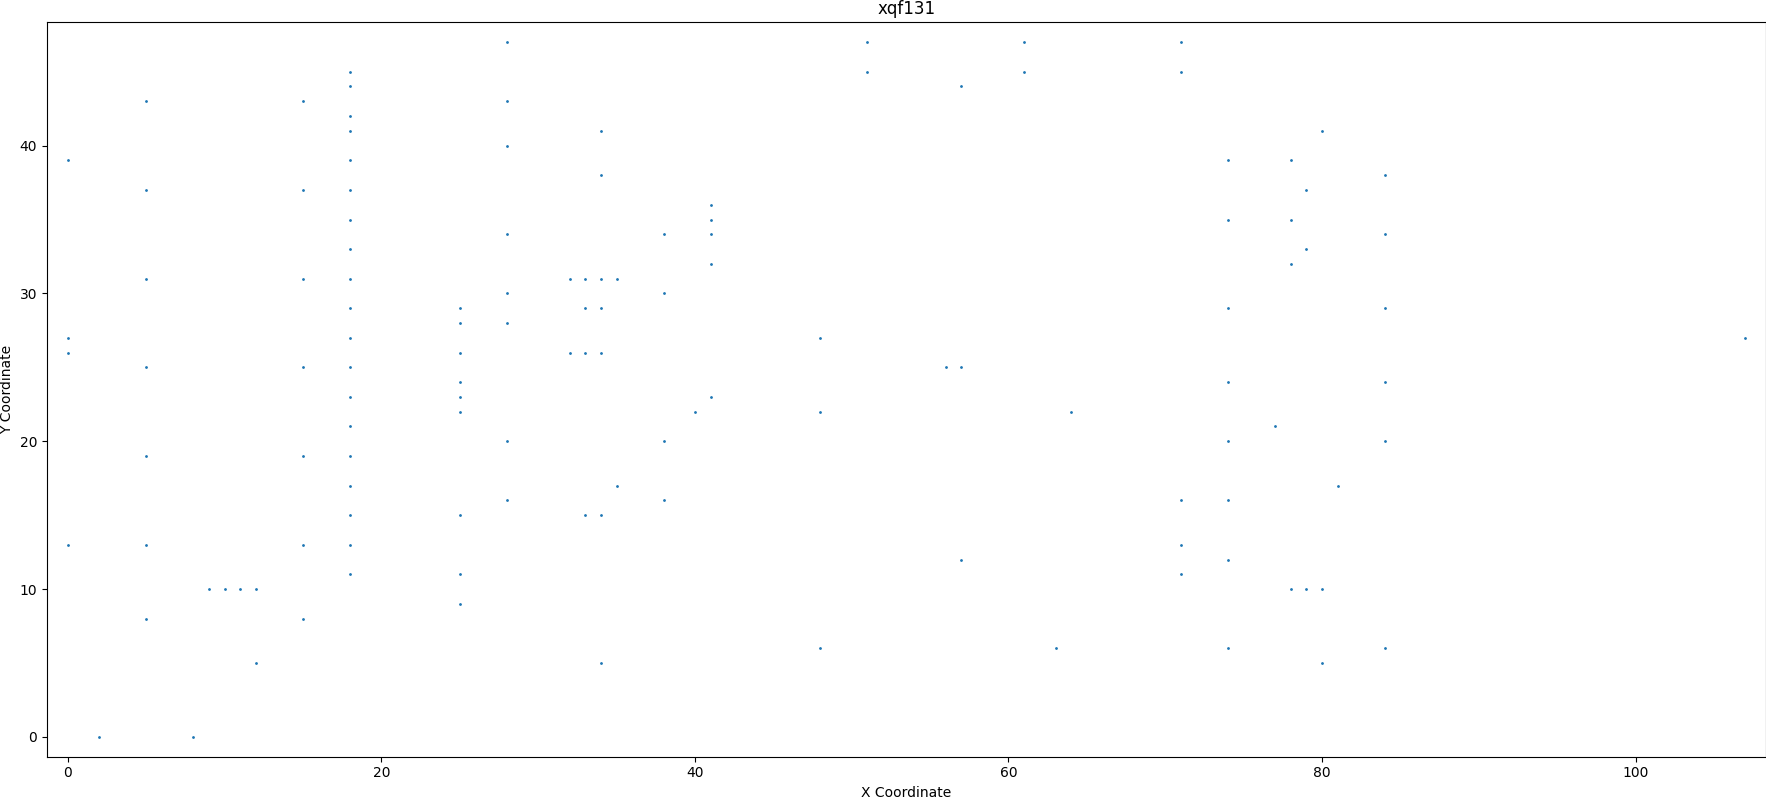
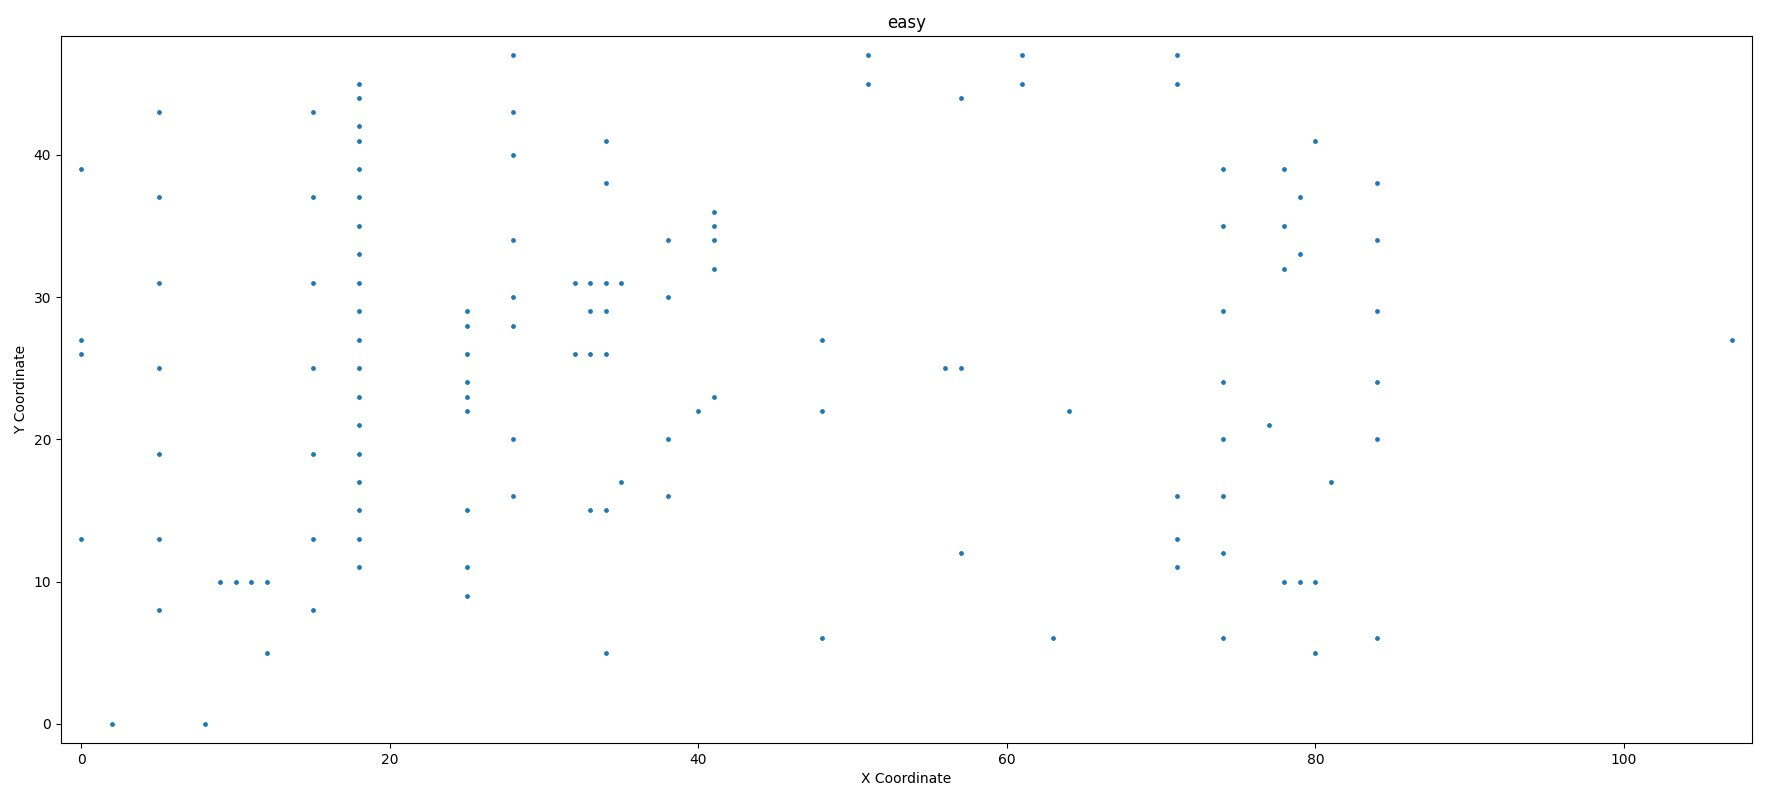
feat: Improvements + easy TSP

diff --git a/src/travel_graph.py b/src/travel_graph.py
@@ -21,27 +21,58 @@ class TravelGraph:
 
     def find_shortest_path(self) -> tuple[list[int], float]:
         ga_instance = GA(
-            num_generations=100,
-            num_parents_mating=4,
+            num_generations=200,
+            num_parents_mating=20,
             fitness_func=self.fitness_function,
-            sol_per_pop=300,
+            initial_population=self.generate_biased_population(population_size=100),
             num_genes=len(self.nodes),
             init_range_low=0,
             init_range_high=len(self.nodes) - 1,
             gene_type=int,
-            parent_selection_type="sss",
+            parent_selection_type="tournament",
             keep_parents=1,
+            keep_elitism=2,
+            K_tournament=5,
             crossover_type="single_point",
+            crossover_probability=0.8,
             mutation_type="random",
-            mutation_num_genes=max(round(len(self.nodes) * 0.05), 1),
+            mutation_probability=0.2,
+            mutation_num_genes=max(round(len(self.nodes) * 0.1), 1),
             gene_space=[i for i in range(len(self.nodes))],
             allow_duplicate_genes=False,
+            stop_criteria=[
+                "saturate_10",
+            ],
+            random_seed=42,
         )
         ga_instance.run()
 
         solution, solution_fitness, _ = ga_instance.best_solution()
         distance = -solution_fitness
         return solution, distance
+
+    def generate_biased_population(self, population_size: int, random_fraction: float = 0.2) -> list[np.ndarray]:
+        base_order = np.arange(len(self.nodes))
+        population = []
+
+        num_random_individuals = int(population_size * random_fraction)
+        num_biased_individuals = population_size - num_random_individuals
+
+        for _ in range(num_biased_individuals):
+            individual = base_order.copy()
+
+            num_swaps = np.random.randint(2, 6)
+            for _ in range(num_swaps):
+                i, j = np.random.choice(len(self.nodes), size=2, replace=False)
+                individual[i], individual[j] = individual[j], individual[i]
+
+            population.append(individual)
+
+        for _ in range(num_random_individuals):
+            random_individual = np.random.permutation(base_order)
+            population.append(random_individual)
+
+        return population
 
     def fitness_function(self, ga_instance: GA, solution: np.ndarray, solution_idx: int) -> float:
         distance = 0.0

diff --git a/src/driver.py b/src/driver.py
@@ -1,3 +1,4 @@
+import time
 from parser.tour_parser import parse_tour_file
 from parser.tsp_parser import parse_tsp_file
 
@@ -6,34 +7,43 @@ from travel_graph import TravelGraph
 
 
 def main() -> None:
-    tsp_file_path = "data/xqf131/xqf131.tsp"
+    problem_name = input("Enter the problem name [xqf131]: ")
+    problem_name = problem_name or "xqf131"
+    tsp_file_path = f"data/{problem_name}/{problem_name}.tsp"
     tsp_file = parse_tsp_file(file_path=tsp_file_path)
+    nodes = tsp_file.nodes
     plot_nodes_to_file(
-        nodes=tsp_file.nodes,
-        file_path="data/xqf131/xqf131.png",
-        title="xqf131",
+        nodes=nodes,
+        file_path=f"data/{problem_name}/{problem_name}.png",
+        title="easy",
     )
 
-    tour_file_path = "data/xqf131/xqf131.tour"
+    tour_file_path = f"data/{problem_name}/{problem_name}.tour"
     tour_file = parse_tour_file(file_path=tour_file_path)
     plot_nodes_to_file(
         nodes=tsp_file.nodes,
-        file_path="data/xqf131/xqf131_tour.png",
-        title="xqf131 Tour",
+        file_path=f"data/{problem_name}/{problem_name}_tour.png",
+        title=f"{problem_name} Tour",
         order=tour_file.tour,
     )
 
-    travel_graph = TravelGraph(nodes=tsp_file.nodes)
+    travel_graph = TravelGraph(nodes=nodes)
+
+    start_time = time.perf_counter()
     solution, distance = travel_graph.find_shortest_path()
+    end_time = time.perf_counter()
+
     print(f"TSP: {tsp_file.name}")
     print(f"cities: {tsp_file.dimension}")
     print(f"edge weight type: {tsp_file.edge_weight_type}")
     print(f"best distance = {distance}")
     print(f"best solution: {solution}")
+    elapsed_time = end_time - start_time
+    print(f"Execution time: {elapsed_time:.4f} seconds")
     plot_nodes_to_file(
-        nodes=tsp_file.nodes,
-        file_path="data/xqf131/xqf131_solution.png",
-        title="xqf131 Tour",
+        nodes=nodes,
+        file_path=f"data/{problem_name}/{problem_name}_solution.png",
+        title=f"{problem_name} Tour",
         order=solution,
     )
 

diff --git a/src/plotter.py b/src/plotter.py
@@ -24,11 +24,10 @@ def plot_nodes_to_file(
     aspect_ratio = width / height
 
     plt.figure(figsize=(8 * aspect_ratio, 8))
-    plt.scatter(x_coords, y_coords, s=1)
+    plt.scatter(x_coords, y_coords, s=6)
 
     if order is not None:
-        order = order - 1
-        plt.plot(x_coords[order], y_coords[order], linewidth=0.5)
+        plt.plot(x_coords[order], y_coords[order], linewidth=1)
 
     plt.title(title)
     plt.xlabel("X Coordinate")
@@ -37,6 +36,6 @@ def plot_nodes_to_file(
     plt.xlim(x_min, x_max)
     plt.ylim(y_min, y_max)
 
-    plt.tight_layout(pad=0)
+    plt.tight_layout(pad=1)
     plt.savefig(file_path, format="png", dpi=100)
     plt.close()

diff --git a/src/parser/tour_parser.py b/src/parser/tour_parser.py
@@ -20,7 +20,8 @@ def parse_tour_file(file_path: str) -> TourFile:
     name = headers.get("NAME", "unknown")
     dimension = int(headers.get("DIMENSION", 0))
 
-    return TourFile(name=name, dimension=dimension, tour=np.array(tour))
+    np_tour = np.array(tour) - 1
+    return TourFile(name=name, dimension=dimension, tour=np_tour)
 
 
 def parse_tour(file: TextIO) -> list[int]:
